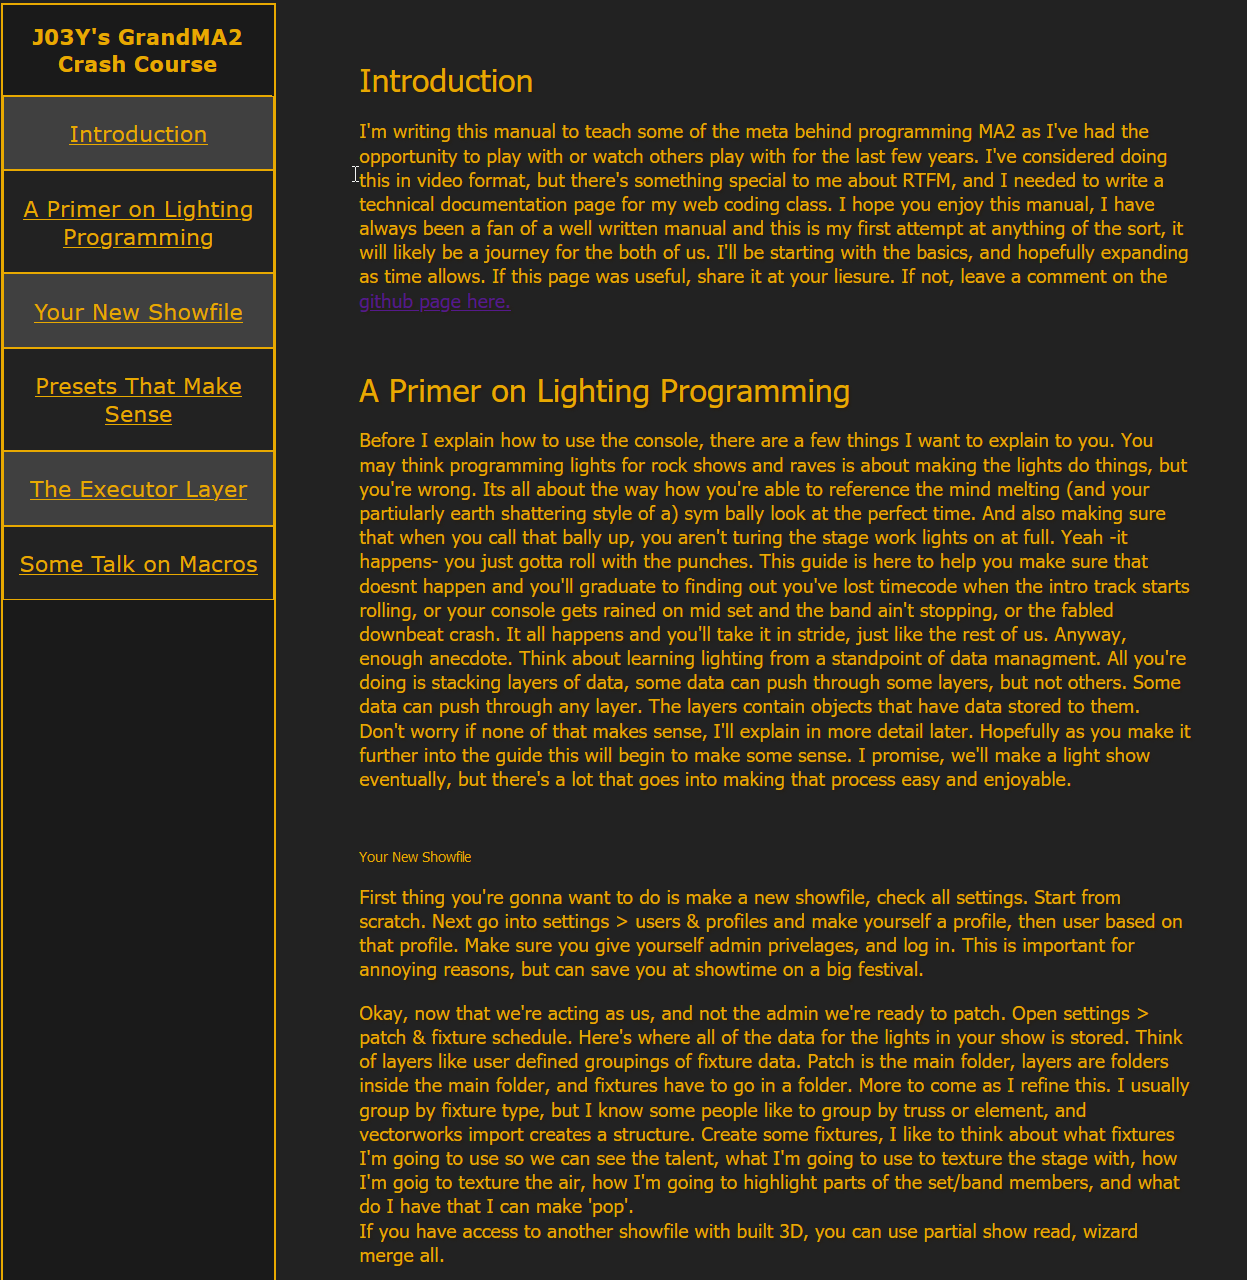
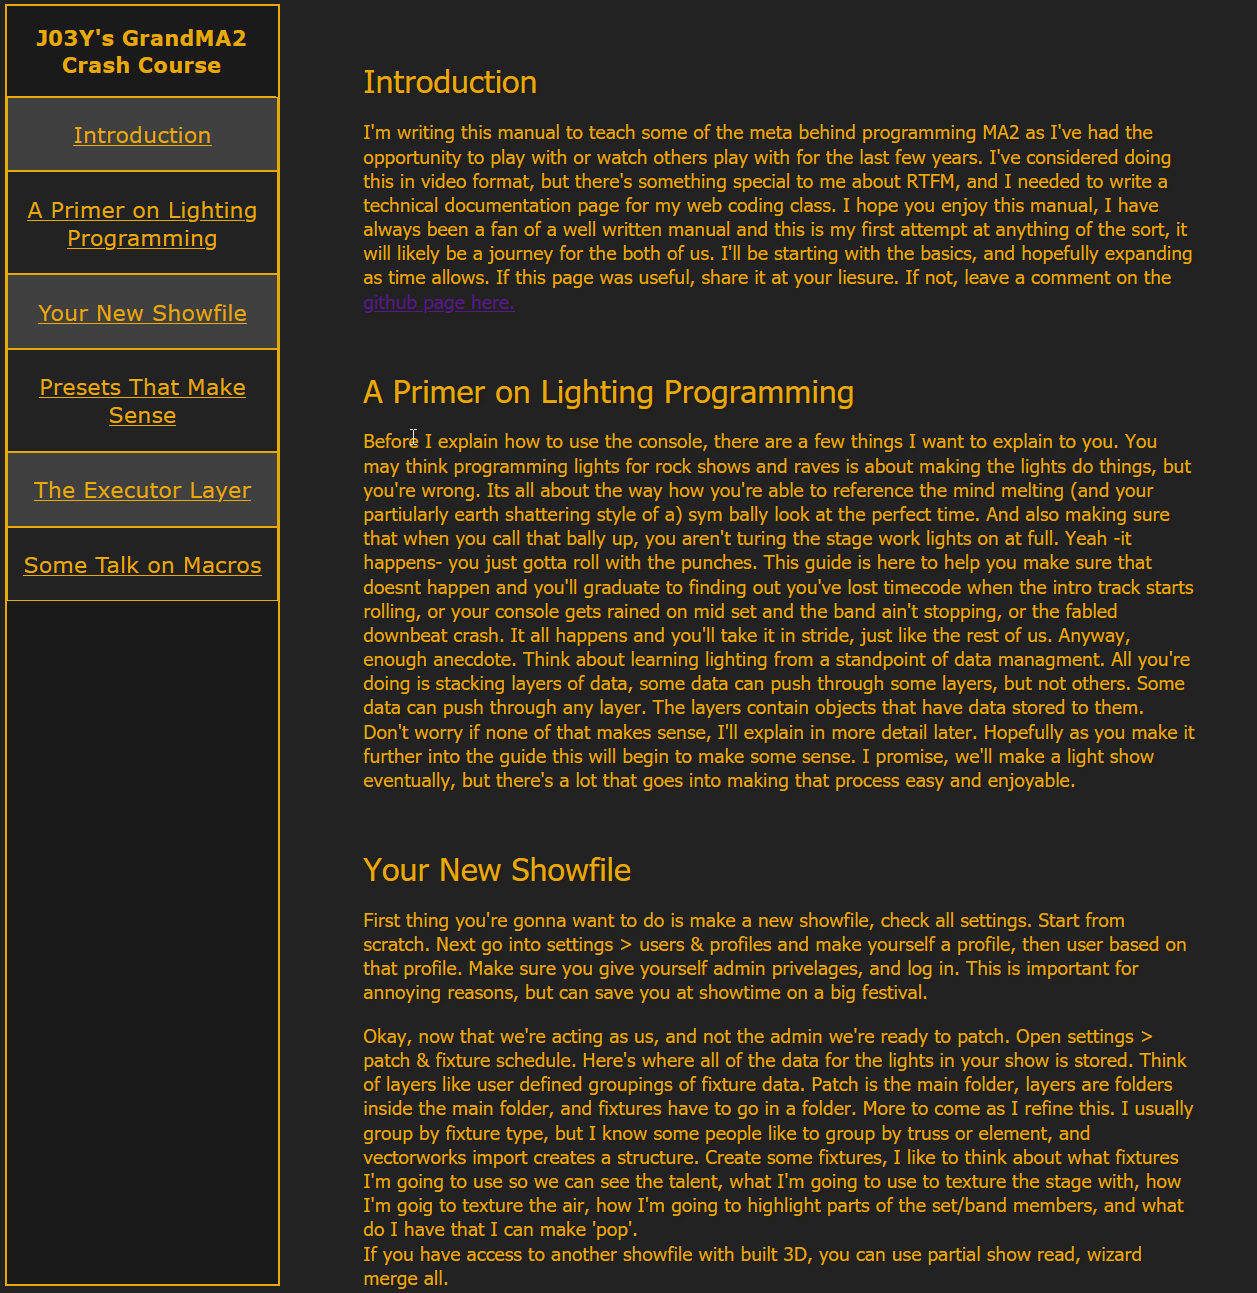
fixed big in h1 tag, updated ss

diff --git a/FinishedProjects/ConsoleCrashCourse/consoleCrashCourse.html b/FinishedProjects/ConsoleCrashCourse/consoleCrashCourse.html
@@ -64,7 +64,7 @@
 
             <section id="Your_New_Showfile" class="main-section">
 
-                <header class="main">Your New Showfile</header>
+                <header class="main-header">Your New Showfile</header>
 
                 <p class="main">
                     First thing you're gonna want to do is make a new showfile, check all settings. Start from scratch. Next go into settings > users & profiles and make yourself a profile, then user based on that profile.
